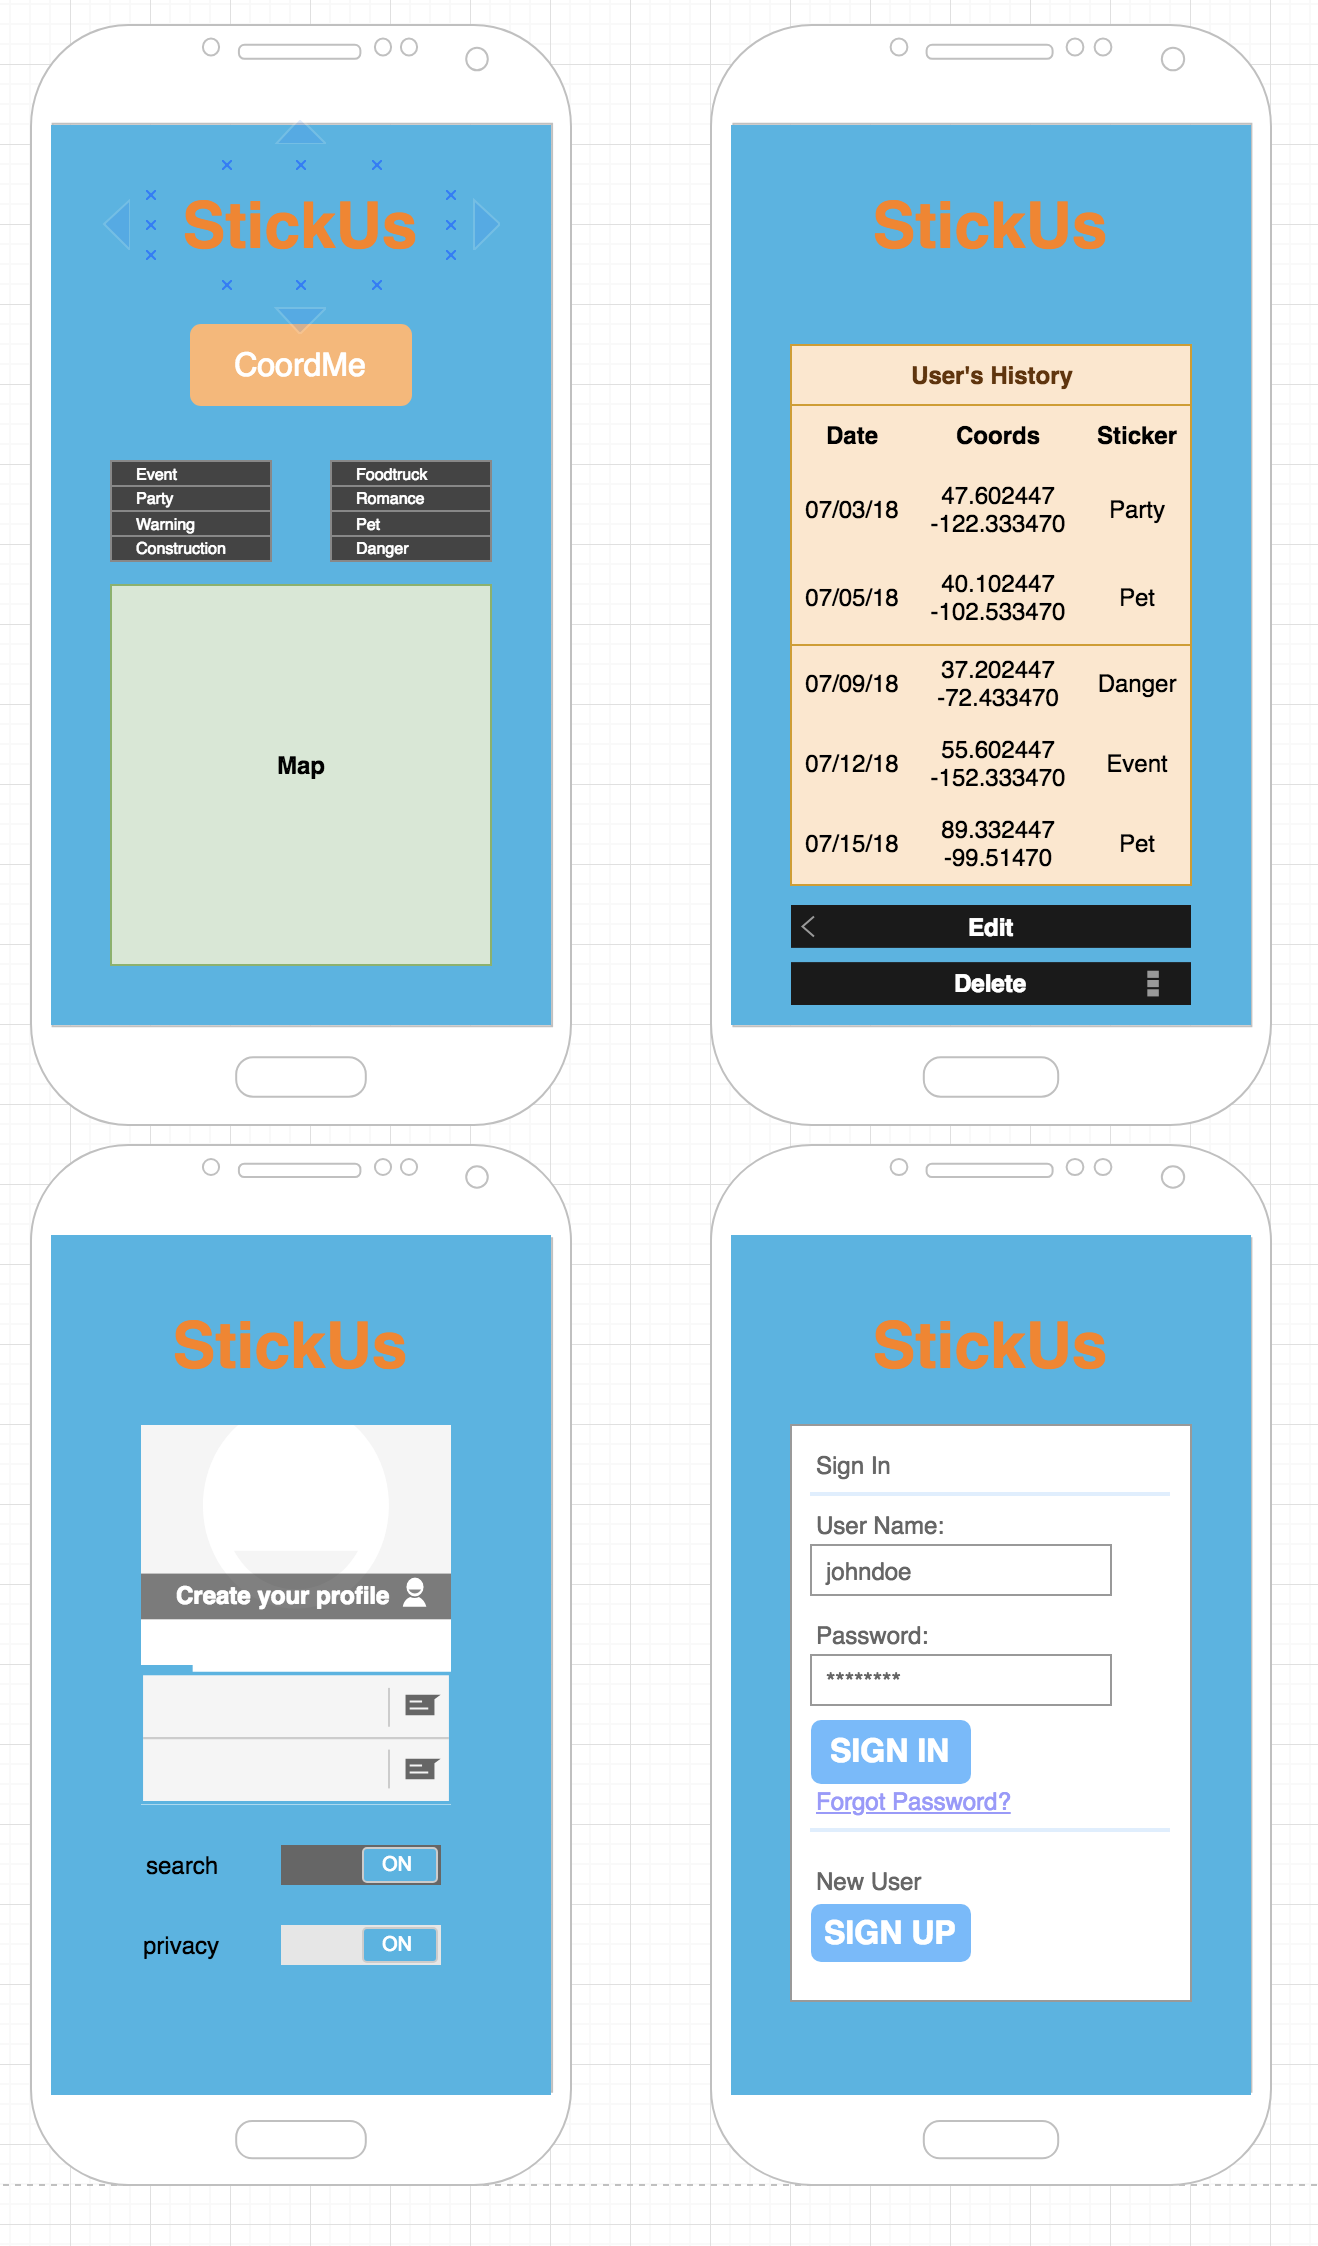
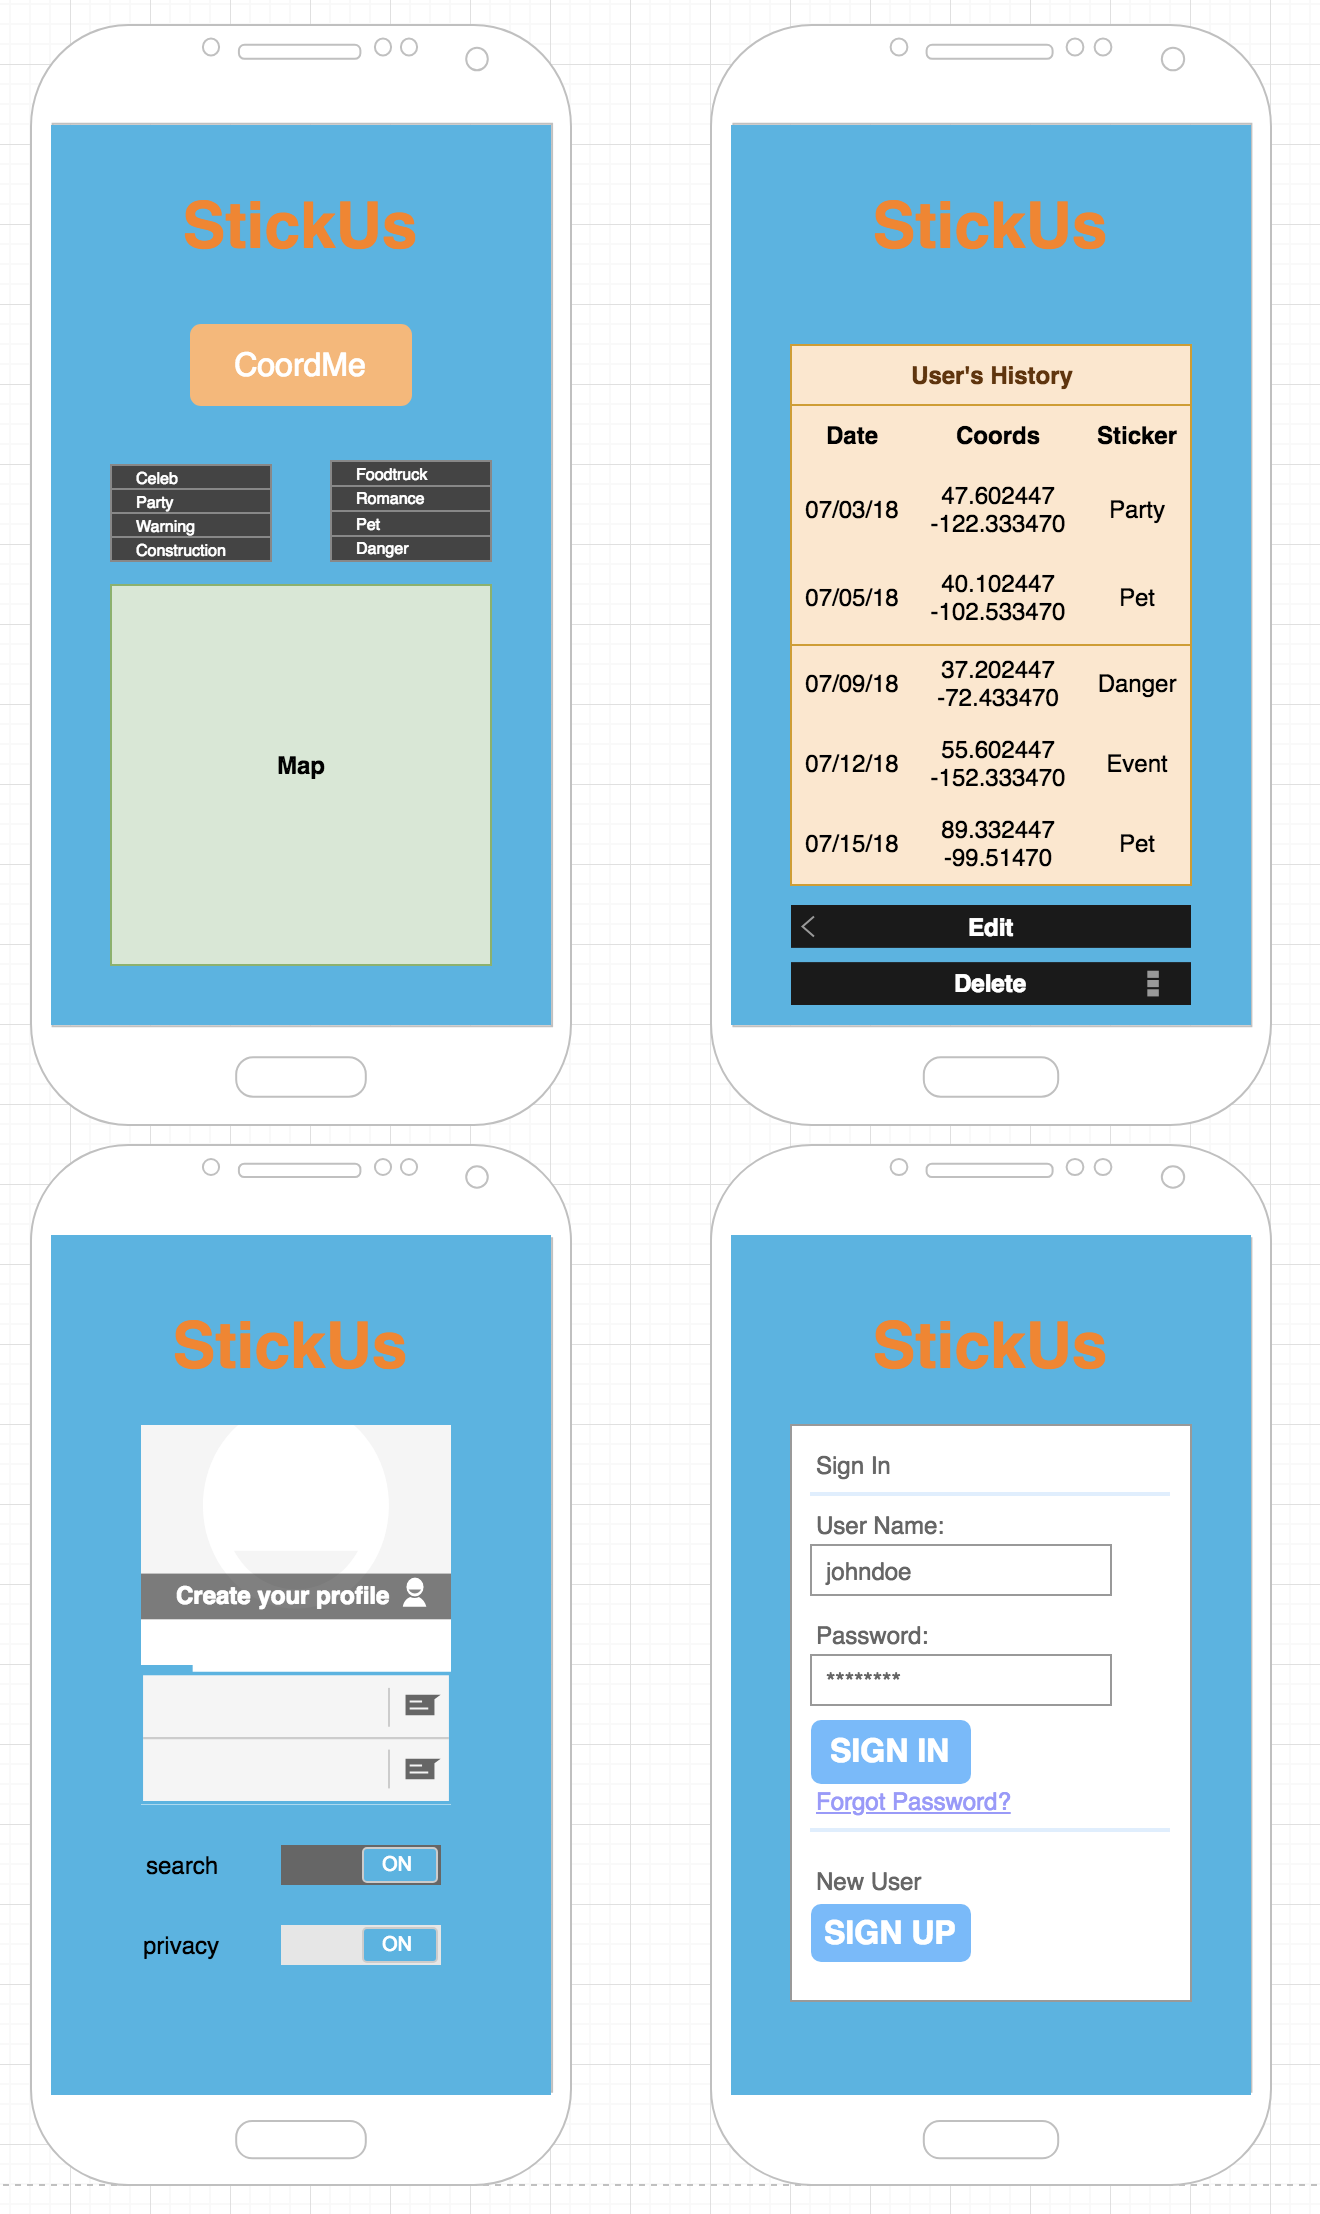
update README project summary, edit UIon sticker category

diff --git a/README.md b/README.md
@@ -1,6 +1,6 @@
 # stickUs
 
-This repo contains material for planning an approach to creating my Capstone project.
+This project is built using React Native.  It allows its user to find their current location and post customized icons for specific GPS coordinates.  The icon to select is available to the user in different categories of stickers, depending on the user's relevant situation. 
 
 By Kristi Hwang
 
@@ -53,7 +53,7 @@ Any inquiries, comments, and/or concerns can be directed to Kristi Hwang via Git
 
 ## Technologies Used
 
-* React.js
+* React Native
 * React-Redux
 * Firebase
 * JSX
